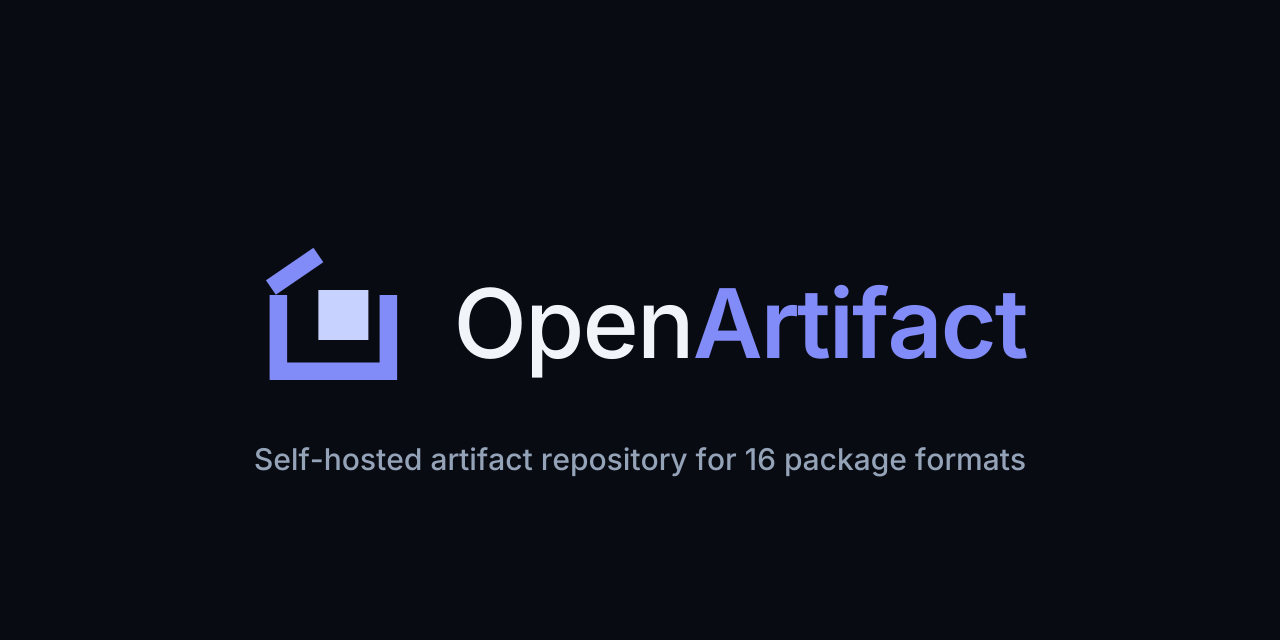
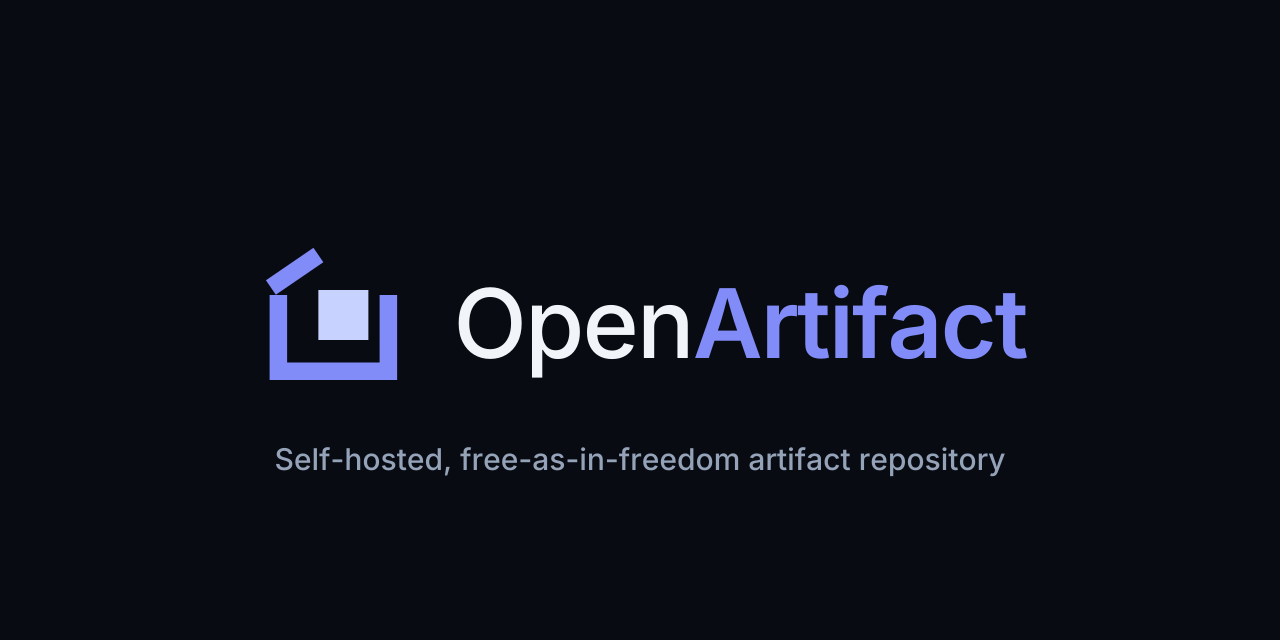
brand: count-free social card tagline and regenerated assets (#2)

Changed region(s): [[0.1875, 0.6875, 0.8125, 0.75]]

diff --git a/scripts/build.py b/scripts/build.py
@@ -107,7 +107,7 @@ def main():
     _, tw = text.wordmark(96, 0, 0, '', '')
     gx = (1280 - (200 + tw)) / 2
     words, _ = text.wordmark(96, gx + 200, 358, '#F1F5F9', '#818CF8')
-    tagline = 'Self-hosted artifact repository for 16 package formats'
+    tagline = 'Self-hosted, free-as-in-freedom artifact repository'
     _, lw = text.path(tagline, 'Medium', 30, 0, 0, 0)
     line, _ = text.path(tagline, 'Medium', 30, (1280 - lw) / 2, 470, 0)
     src = write('social/openartifact-social-dark.svg',
